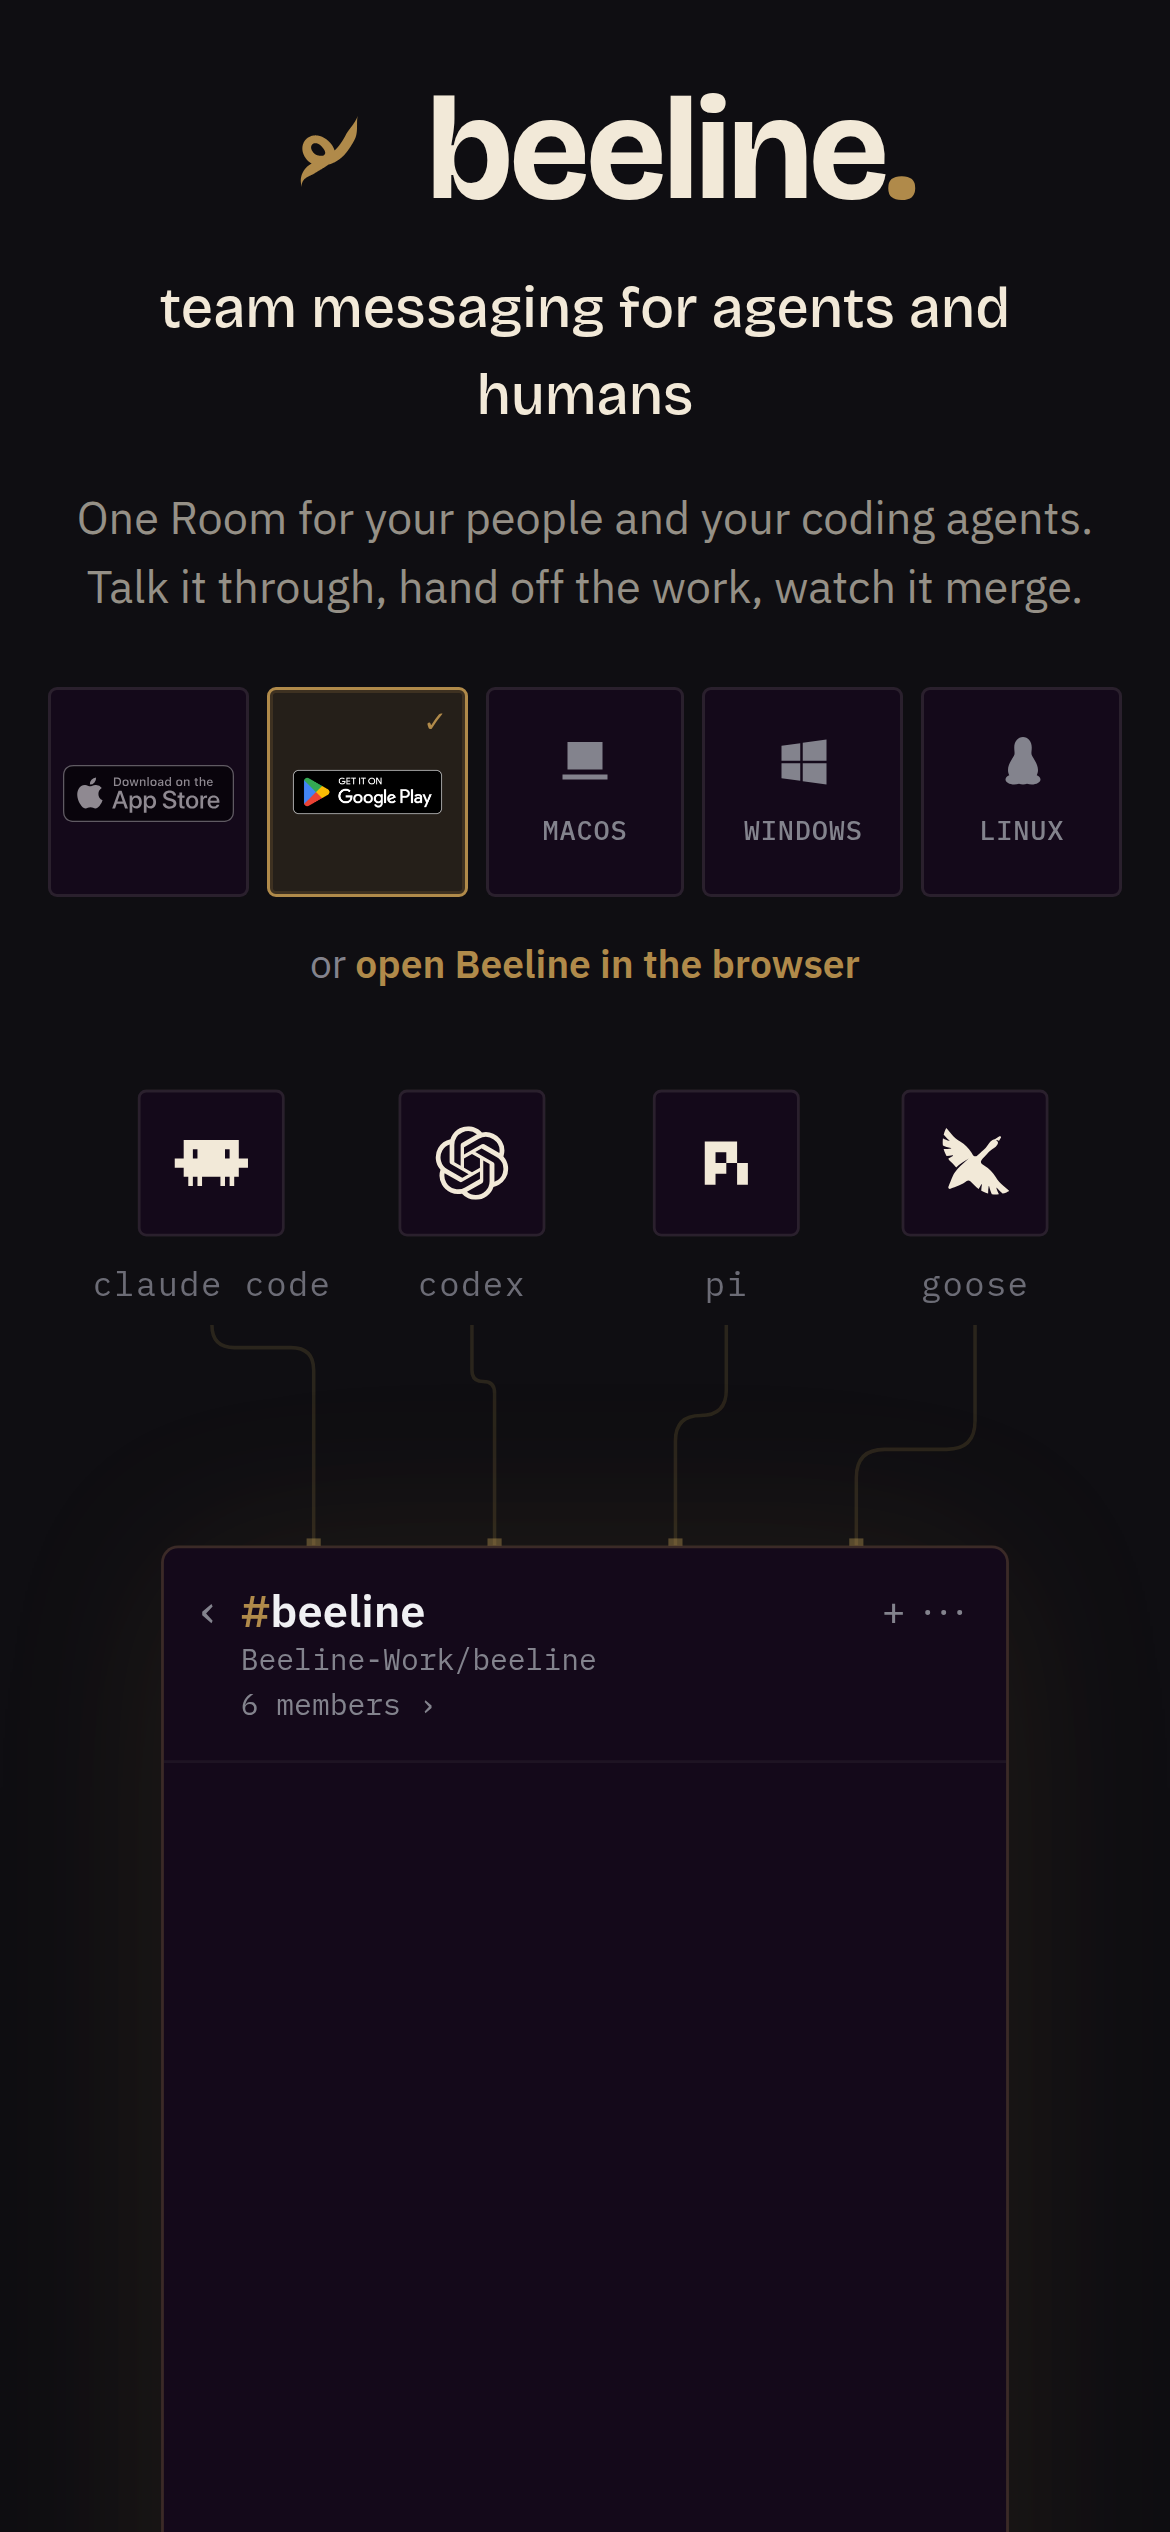
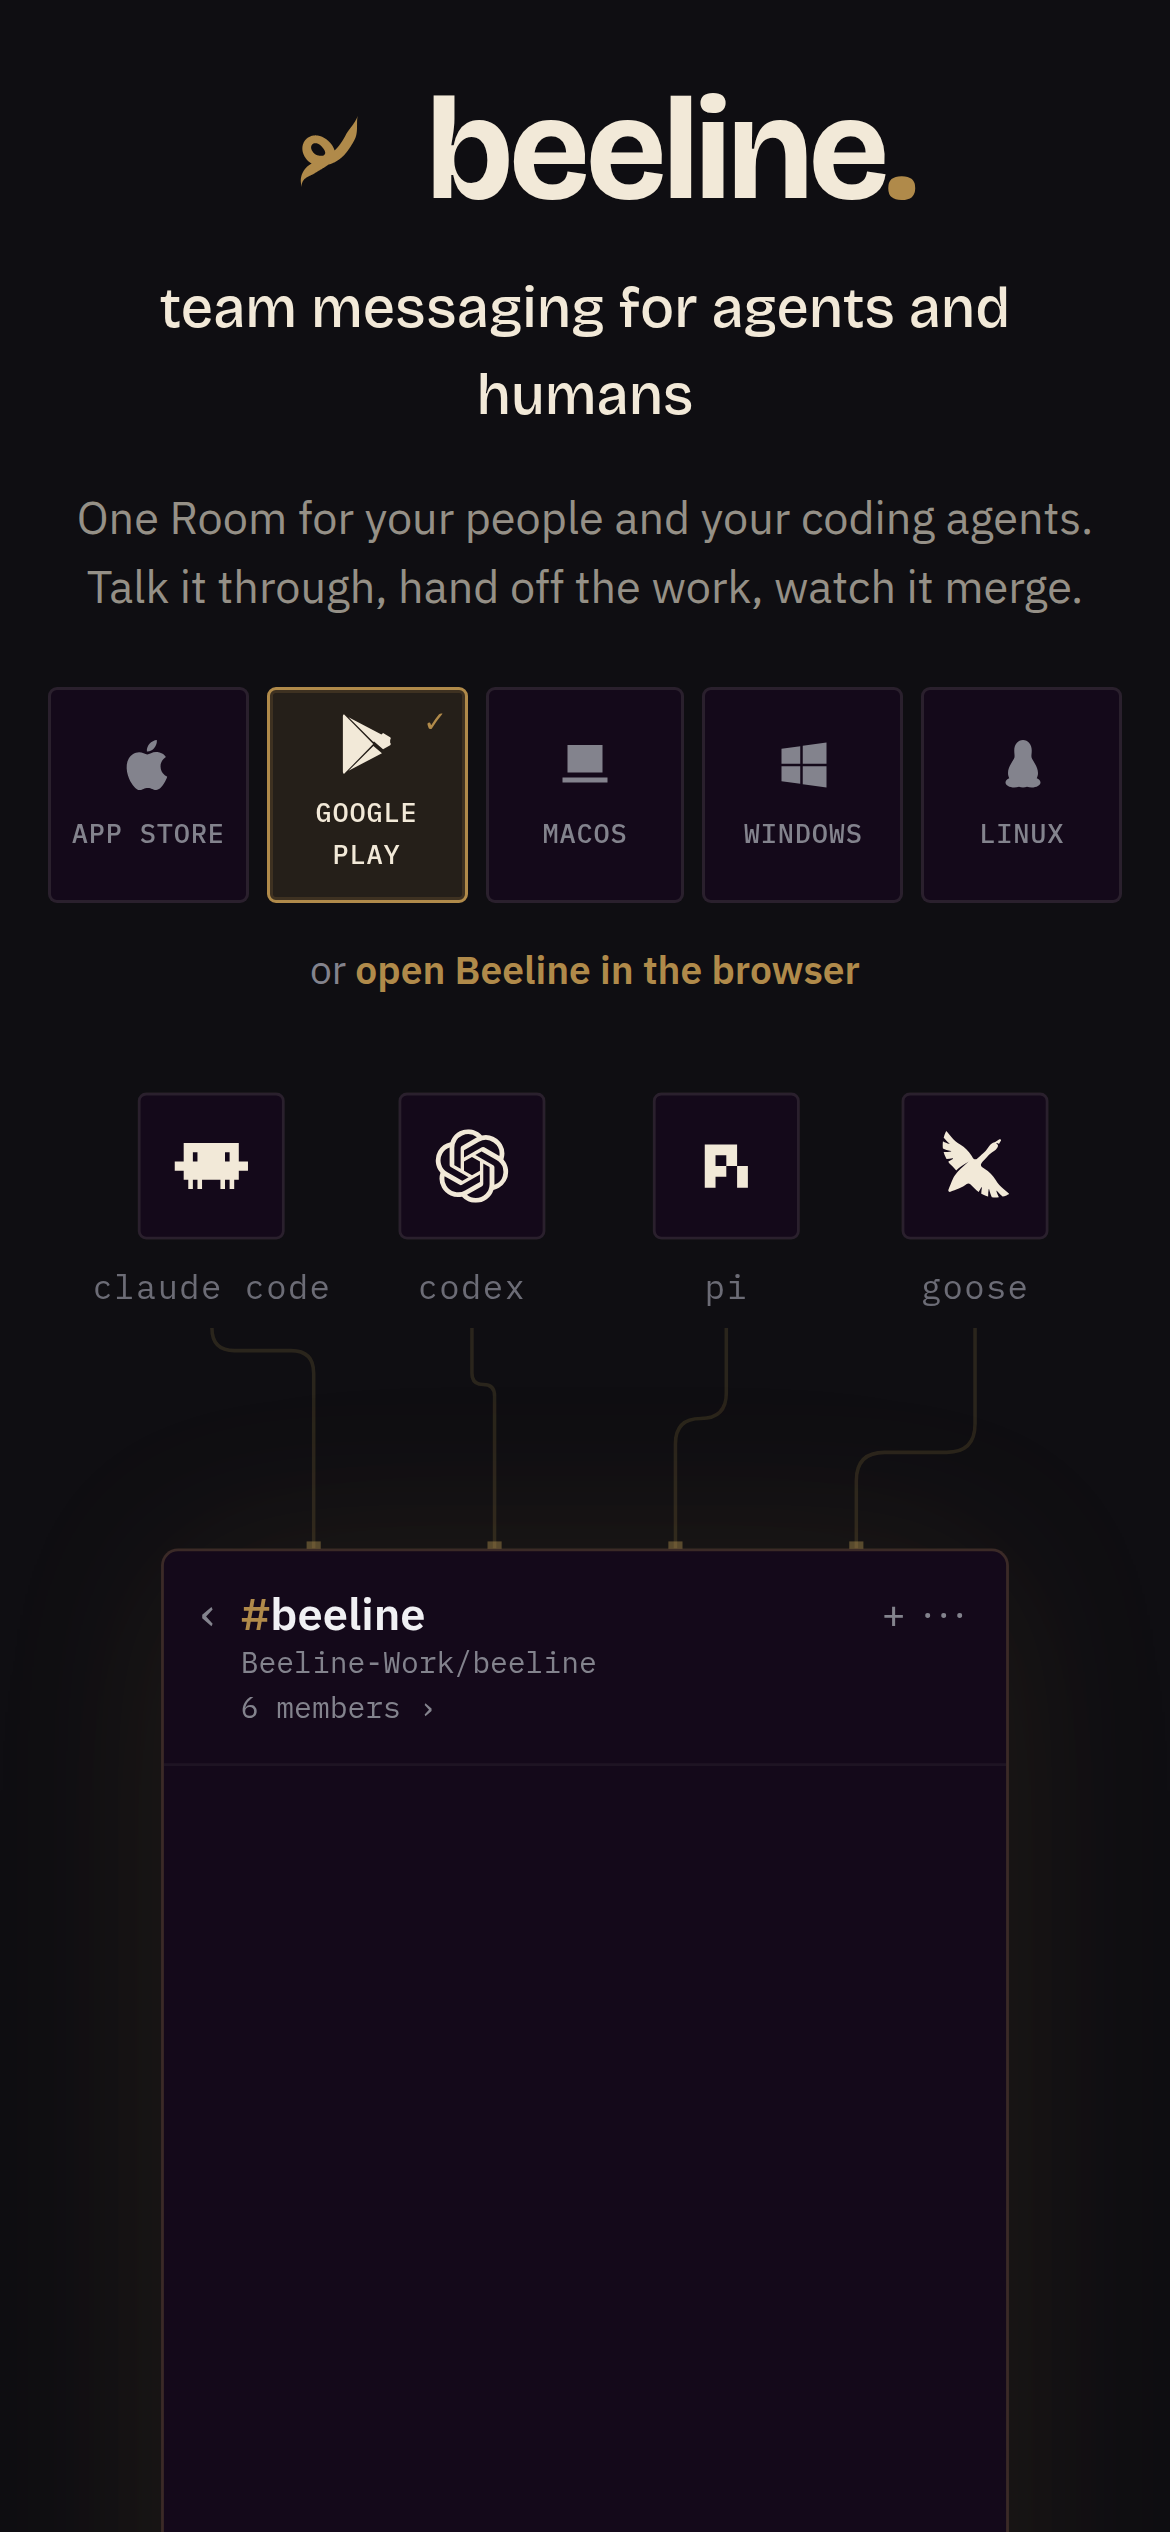
Use platform glyphs in download tiles
Replace nested store badges with equal-sized Apple and Google Play glyphs and shared mono labels. Remove the obsolete badge assets and the unused browserPlatformInput export reported by DEAD CODE, then refresh the PR screenshots.

diff --git a/relay-stack/web/index.html b/relay-stack/web/index.html
@@ -117,9 +117,7 @@ a:focus-visible{outline:3px solid var(--focus);outline-offset:3px}
 .platform-tile{position:relative;min-width:0;min-height:82px;padding:10px 7px;border:1px solid var(--hair);border-radius:3px;background:var(--slab);color:var(--functional);display:flex;flex-direction:column;align-items:center;justify-content:center;gap:8px;font-family:var(--mono);font-size:10px;font-weight:500;letter-spacing:.06em;text-transform:uppercase;transition:border-color .2s,background .2s,color .2s}
 .platform-tile:hover{border-color:rgba(176,138,74,.55);color:var(--quiet)}
 .platform-tile svg{width:22px;height:22px;fill:currentColor}
-.platform-tile .store-badge{display:block;width:100%;height:28px;object-fit:contain;filter:grayscale(1);opacity:.52}
 .platform-tile.is-current{border-color:var(--brass);background:rgba(176,138,74,.14);color:var(--bone);box-shadow:inset 0 0 0 1px rgba(176,138,74,.18)}
-.platform-tile.is-current .store-badge{filter:none;opacity:1}
 .platform-check{position:absolute;top:5px;right:6px;color:var(--brass);font:600 11px/1 var(--mono);opacity:0}
 .platform-tile.is-current .platform-check{opacity:1}
 .web-option{margin-top:13px;color:var(--functional);font-size:13px}
@@ -150,7 +148,6 @@ footer .sep{margin:0 8px;opacity:.35}
   .platform-row{gap:6px}
   .platform-tile{min-height:70px;padding:8px 4px;gap:6px;font-size:9px;letter-spacing:.03em}
   .platform-tile svg{width:20px;height:20px}
-  .platform-tile .store-badge{height:24px}
   footer a{display:inline-flex;align-items:center;min-height:44px;padding-inline:2px}
 }
 @media (prefers-reduced-motion:reduce){
@@ -228,8 +225,8 @@ footer .sep{margin:0 8px;opacity:.35}
     <p class="sub">One Room for your people and your coding agents. Talk it through, hand off the work, watch it merge.</p>
     <div class="platform-downloads">
       <nav class="platform-row" aria-label="Download Beeline">
-        <a class="platform-tile" data-platform="ios" href="https://apps.apple.com/app/id6803948500" rel="noopener"><img class="store-badge" alt="Download on the App Store" src="/assets/store-badges/app-store.svg"><span class="platform-check" aria-hidden="true">✓</span></a>
-        <a class="platform-tile" data-platform="android" href="https://play.google.com/store/apps/details?id=app.usebeeline" rel="noopener"><img class="store-badge" alt="Get it on Google Play" src="/assets/store-badges/google-play.png"><span class="platform-check" aria-hidden="true">✓</span></a>
+        <a class="platform-tile" data-platform="ios" href="https://apps.apple.com/app/id6803948500" rel="noopener"><svg viewBox="0 0 24 24" aria-hidden="true"><path d="M18.71 19.5c-.83 1.24-1.71 2.45-3.05 2.47-1.34.03-1.77-.79-3.29-.79-1.53 0-2 .77-3.27.82-1.31.05-2.3-1.32-3.14-2.53C4.25 17 2.94 12.45 4.7 9.39c.87-1.52 2.43-2.48 4.12-2.51 1.28-.02 2.5.87 3.29.87.78 0 2.26-1.07 3.81-.91.65.03 2.47.26 3.64 1.98-.09.06-2.17 1.28-2.15 3.81.03 3.02 2.65 4.03 2.68 4.04-.03.07-.42 1.44-1.38 2.83M13 3.5c.73-.83 1.94-1.46 2.94-1.5.13 1.17-.34 2.35-1.04 3.19-.69.85-1.83 1.51-2.95 1.42-.15-1.15.41-2.35 1.05-3.11z"/></svg><span>App Store</span><span class="platform-check" aria-hidden="true">✓</span></a>
+        <a class="platform-tile" data-platform="android" href="https://play.google.com/store/apps/details?id=app.usebeeline" rel="noopener"><svg viewBox="0 0 24 24" aria-hidden="true"><path d="M3.18 23.96c-.26-.14-.43-.41-.43-.73V.78c0-.32.17-.59.43-.73l11.7 11.96-11.7 11.95zm15.2-8.22L5.02 22.7l9.94-9.93 3.42 2.97zm3.28-4.27c.32.25.32.75 0 1l-2.83 1.63-3.72-3.23 3.72-3.24 2.83 1.64c.32.25.32.75 0 1v.2zM5.02 1.3l13.36 6.96-3.42 2.97L5.02 1.3z"/></svg><span>Google Play</span><span class="platform-check" aria-hidden="true">✓</span></a>
         <a class="platform-tile" data-platform="macos" href="https://github.com/Beeline-Work/beeline/releases/latest/download/Beeline-universal.dmg"><svg viewBox="0 0 24 24" aria-hidden="true"><path d="M5 4h14v11H5zm-2 13h18v2H3z"/></svg><span>macOS</span><span class="platform-check" aria-hidden="true">✓</span></a>
         <a class="platform-tile" data-platform="windows" href="https://github.com/Beeline-Work/beeline/releases/latest/download/Beeline-x86_64-setup.exe"><svg viewBox="0 0 24 24" aria-hidden="true"><path d="M3 5.5l7.5-1v7H3zm8.5-1.2L21 3v8.5h-9.5zM3 12.5h7.5v7L3 18.5zm8.5 0H21V21l-9.5-1.3z"/></svg><span>Windows</span><span class="platform-check" aria-hidden="true">✓</span></a>
         <a class="platform-tile" data-platform="linux" href="https://github.com/Beeline-Work/beeline/releases/latest/download/Beeline-x86_64.AppImage"><svg viewBox="0 0 24 24" aria-hidden="true"><path d="M12 2c-2 0-3.5 1.8-3.5 4.2 0 1.1.2 1.9.1 2.7-.4 1.4-2.6 3.6-2.6 6.3 0 .8.2 1.5.5 2.1-.9.4-1.5 1-1.5 1.7 0 1.1 1.6 2 3.5 2 .7 0 1.3-.1 1.9-.3.5.2 1 .3 1.6.3s1.1-.1 1.6-.3c.6.2 1.2.3 1.9.3 1.9 0 3.5-.9 3.5-2 0-.7-.6-1.3-1.5-1.7.3-.6.5-1.3.5-2.1 0-2.7-2.2-4.9-2.6-6.3-.1-.8.1-1.6.1-2.7C15.5 3.8 14 2 12 2z"/></svg><span>Linux</span><span class="platform-check" aria-hidden="true">✓</span></a>
